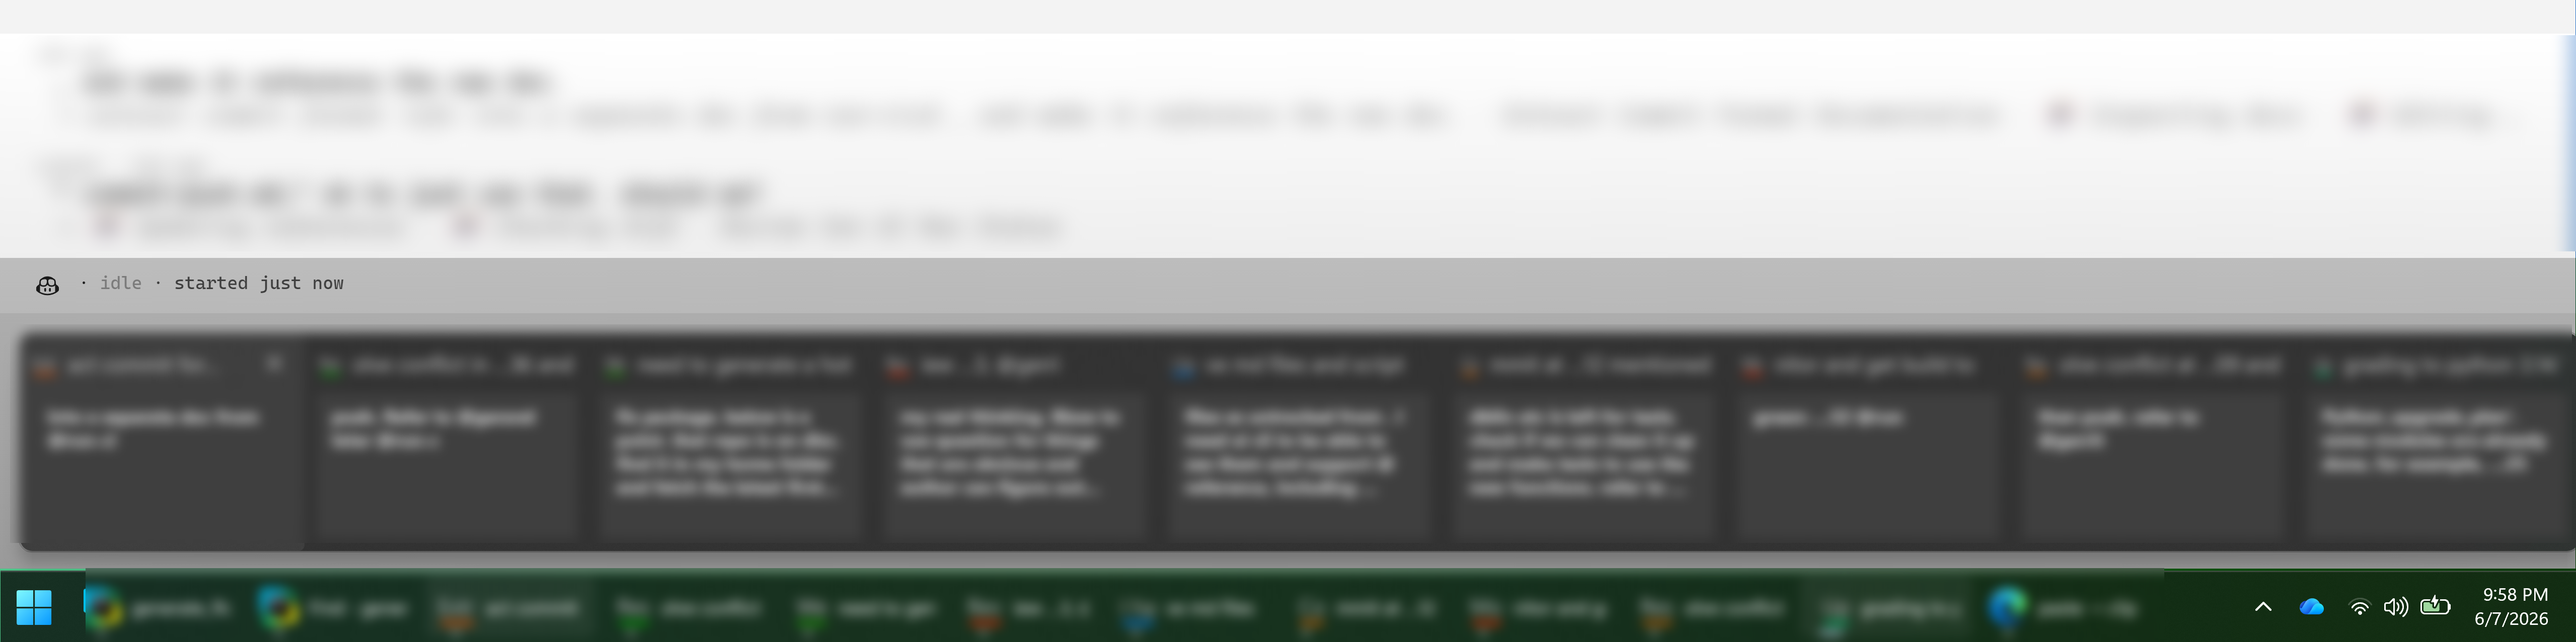
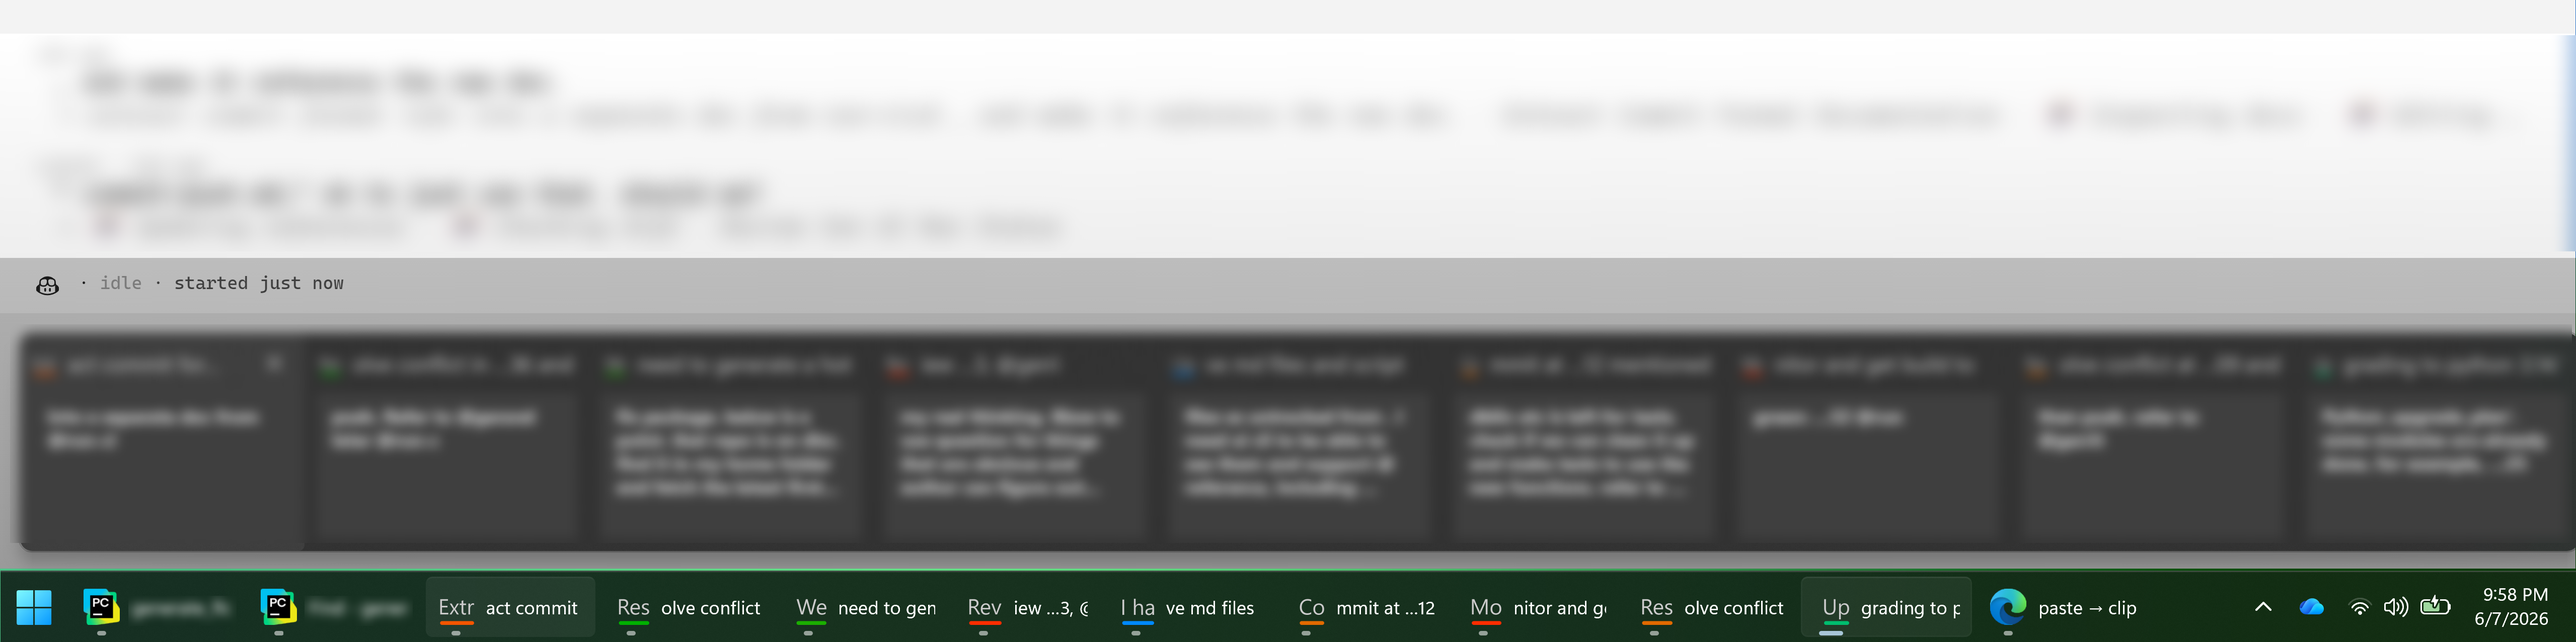
Keep the taskbar labels legible; blur only the session content
The taskbar row is what the shot is there to show: the two-letter badge,
the truncated prompt, the working underline. Blurring it took the point
with it. The picker rows and the hover previews stay blurred, and the two
PyCharm window titles go with them.

Claude-Session: https://claude.ai/code/session_017Jb1egyGrJ3fNvWkxjqUho

Changed region(s): [[0.0311, 0.8857, 0.8388, 1.0]]

diff --git a/README.md b/README.md
@@ -26,7 +26,7 @@ Where that takes conventions that don't exist yet, AgentTerm defines them as ope
 Run many agents and AgentTerm tracks them at two levels. The ones you're **actively juggling** become **Windows taskbar buttons**, each with a working indicator and two levels of live preview showing what the session's for and what it's doing. (On a Mac, run each session full screen: each window pins its initial prompt at the top, readable in a Mission Control swipe.) The ones you've **set aside** are a keystroke away: open the picker and filter your past sessions by **what you asked them**, or what the agent called the work, while a deeper pass searches every prompt you typed; resume any of them (the hero above). No hunting through look-alike terminals, and no back-and-forth with an agent to find it for you.
 
 ![your active agent sessions: each a live taskbar button with a thumbnail preview](assets/taskbar-preview.png)
-<sub>Session text blurred; the layout is what matters here.</sub>
+<sub>Session content blurred; the taskbar labels are as they render.</sub>
 
 ## Watch and steer from your phone
 Add the companion viewer (**[agent-stream-hub](https://github.com/albertwujj/agent-stream-hub)**) to your phone's home screen as a web app. It shows **which agents need you across all your machines** ("your turn"), and drills into any live session **as the terminal itself**: the same screen you left at your desk, recognizable at a glance, with even its menus drivable key-by-key. **Steer it by voice**: speak, and your words reach the agent as text it knows came from voice, so it repairs the mishears and false starts against the session before acting. That's the part phone dictation can't do: with no view of your code it hears "pie test" and leaves it there; the agent turns it into `pytest`. Type instead when voice isn't right. The viewer is self-hosted and opt-in: you run the relay on a machine you own, and everything travels over plain outbound HTTPS, so there are no inbound ports to open and no VPN to stand up.
